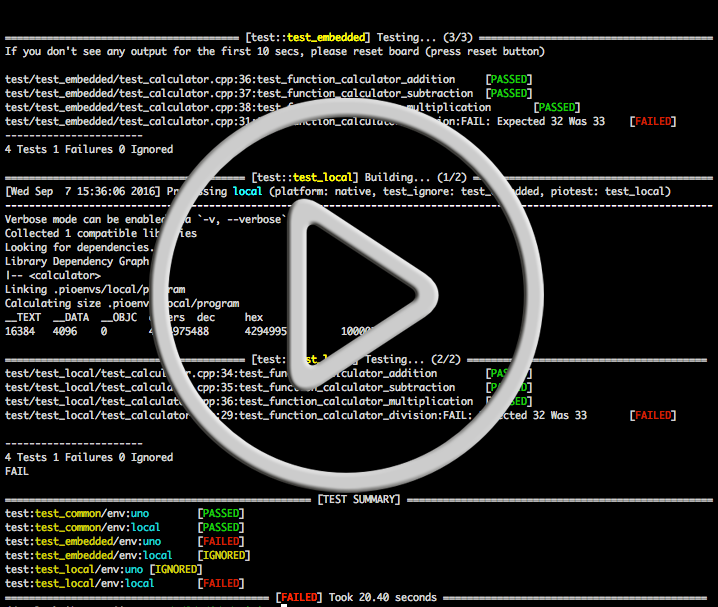
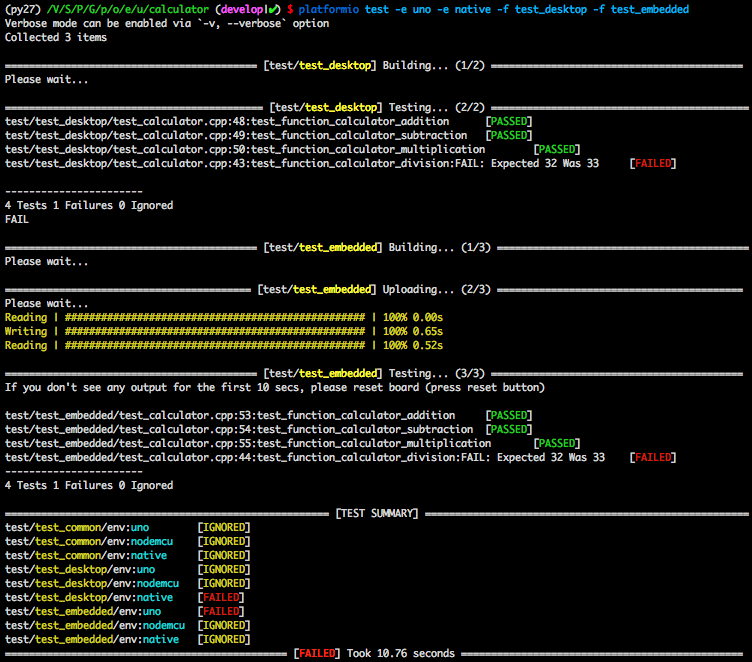
Cosmetic changes to PIO Unified Debugging and Unit Testing

diff --git a/plus/unit-testing.rst b/plus/unit-testing.rst
@@ -30,10 +30,13 @@ they are fit for use. Unit testing finds problems early in the development cycle
 Demo
 ----
 
-Demo of `Local & Embedded: Calculator <https://github.com/platformio/platformio-examples/tree/develop/unit-testing/calculator>`_.
+This is a demo of `Local & Embedded: Calculator <https://github.com/platformio/platformio-examples/tree/develop/unit-testing/calculator>`_ which demonstrates running embedded tests on physical hardware
+(:ref:`board_atmelavr_uno`) and native tests on host machine (desktop).
+
+Learn more about :ref:`cmd_test` command.
 
 .. image:: ../_static/images/pioplus-unit-testing-demo.png
-    :target: https://youtu.be/bo3VVRZVKhA
+    :target: https://github.com/platformio/platformio-examples/tree/develop/unit-testing/calculator
 
 Tutorials and Examples
 ----------------------

diff --git a/plus/debugging.rst b/plus/debugging.rst
@@ -25,9 +25,9 @@ PIO Unified Debugger
   `Demo, discussions, request a support for new hardware. <https://community.platformio.org/t/finally-pio-unified-debugger-comes-to-vscode/4091>`_
 
 * "1-click" solution, zero configuration
-* Support for 200+ embedded boards (see below)
+* Support over 300+ embedded boards (see below)
 * Multiple architectures and development platforms
-* Windows, MacOS, Linux (+ARMv6-8)
+* Windows, MacOS, Linux
 * Built-in into :ref:`ide_atom` and :ref:`ide_vscode`
 * Integration with :ref:`ide_eclipse` and :ref:`ide_sublimetext`
 
